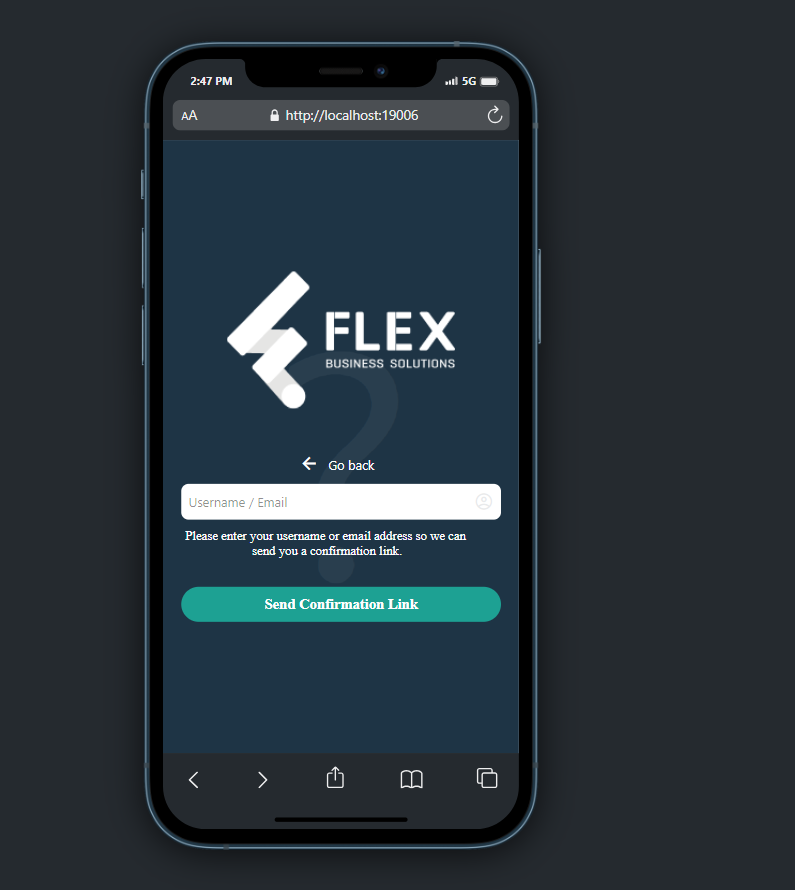
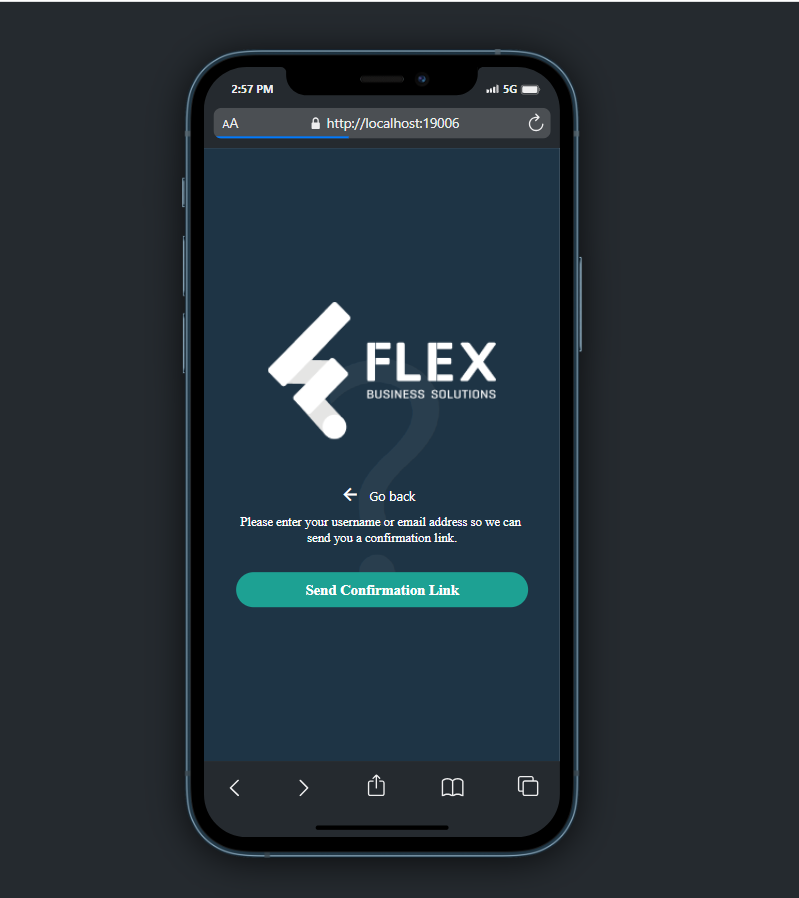
fix

diff --git a/client-app/src/screens/ConfirmedPassword.js b/client-app/src/screens/ConfirmedPassword.js
@@ -2,7 +2,6 @@ import React from "react";
 import { Image, StyleSheet, Text, View, Pressable } from "react-native";
 import { flexLogo } from "../constants/Images";
 import { MaterialCommunityIcons } from "@expo/vector-icons";
-import CustomInput from "../components/CustomInput";
 
 const ConfirmedPassword = () => {
   return (
@@ -20,12 +19,6 @@ const ConfirmedPassword = () => {
           <Pressable>
             <Text style={styles.goBackText}>Go back</Text>
           </Pressable>
-        </View>
-        <View>
-          <CustomInput
-            placeholder="Username / Email"
-            icon="account-circle-outline"
-          />
         </View>
         <Text style={styles.confirmationText}>
           Please enter your username or email address so we can send you a

diff --git a/README.md b/README.md
@@ -10,7 +10,7 @@
     <img src="./client-app/src/assets/Images/ForgotPassword.PNG" alt="Forgot Password Screen" width="50%"/>
   </div>
     <div style="flex: 1;">
-    <h2>Forgot Password</h2>
+    <h2>Confirmation Link Screen</h2>
     <img src="./client-app/src/assets/Images/ConfirmationLink.PNG" alt="Confirmation Link Screen" width="50%"/>
   </div>
 </div>
